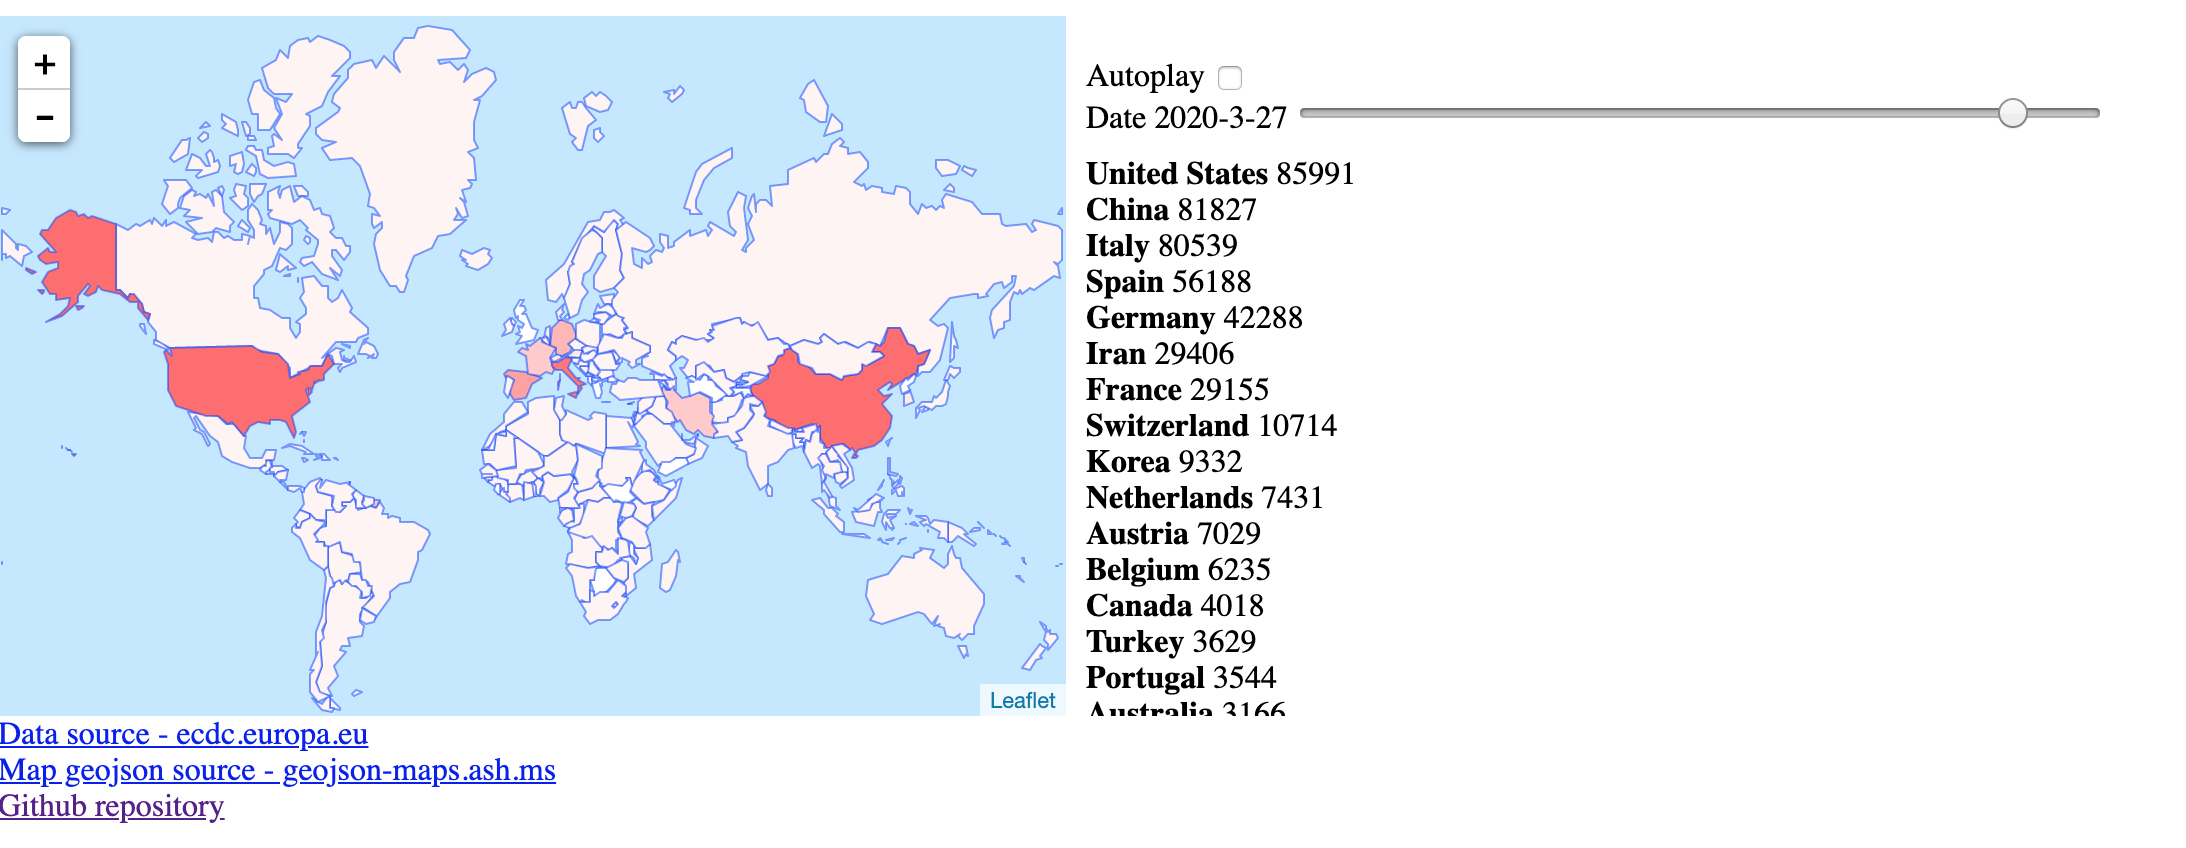
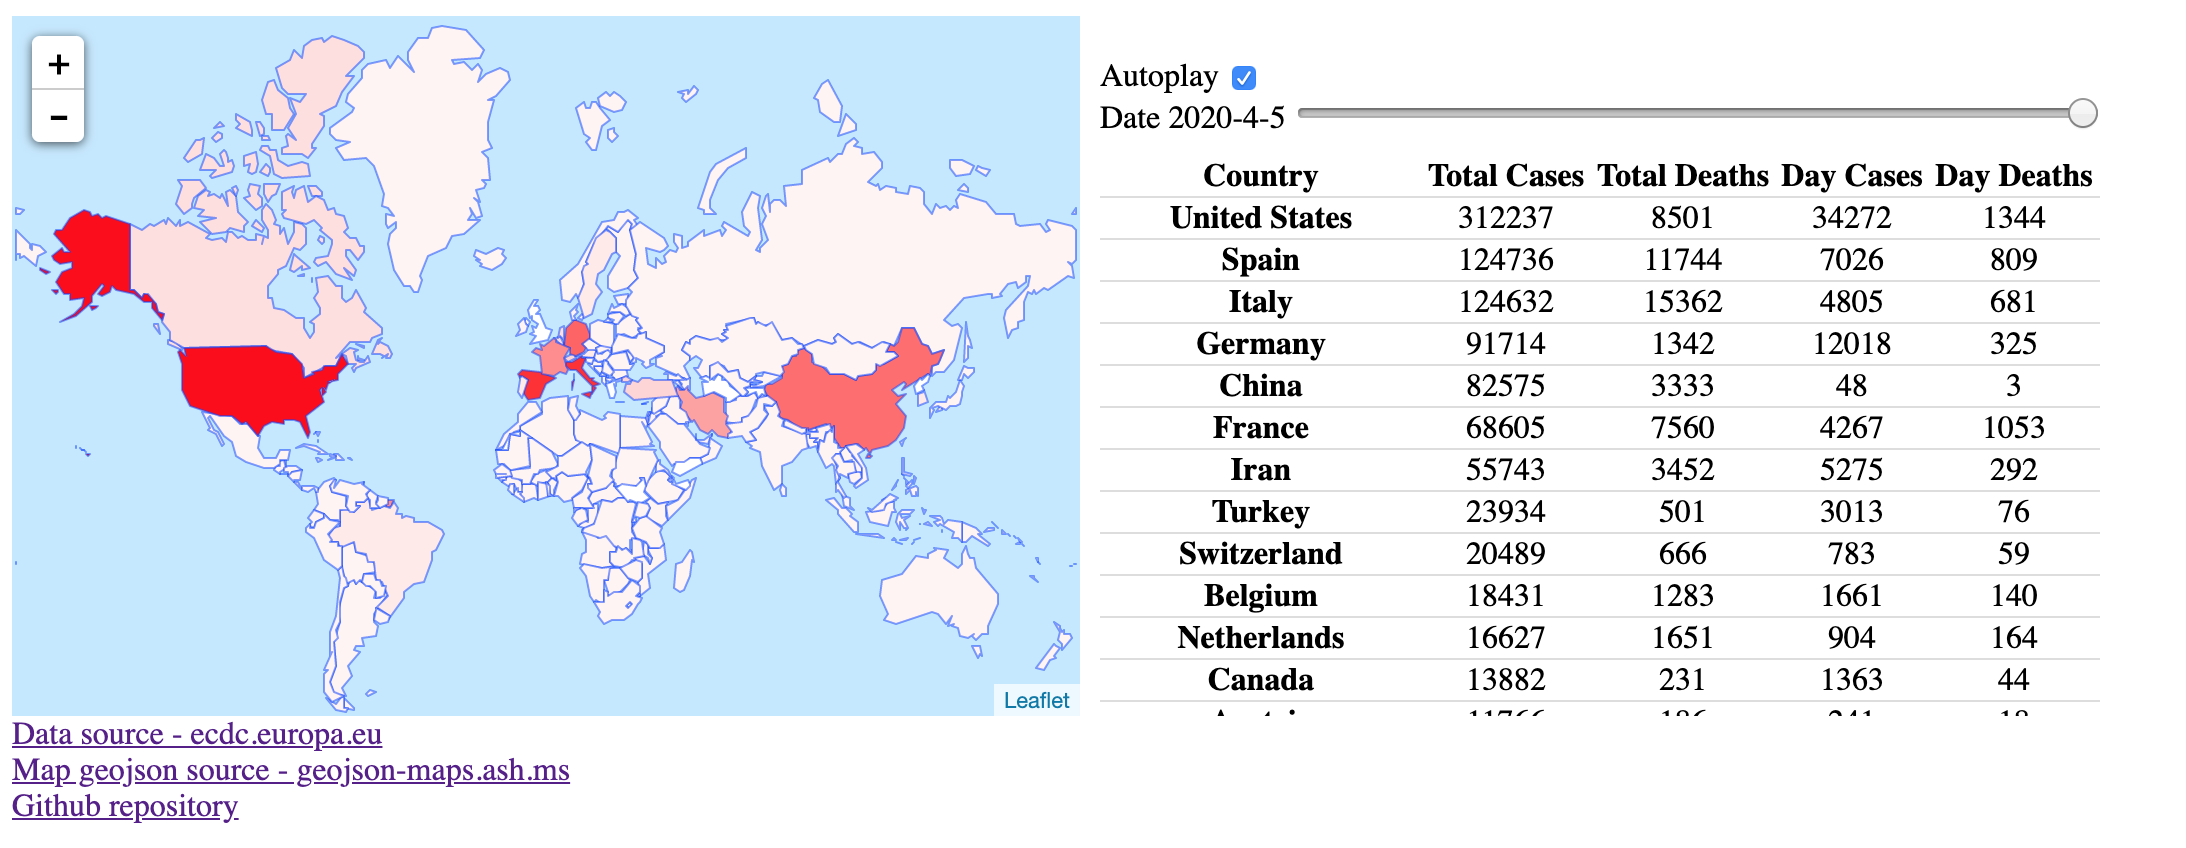
Update card.png screenshot

diff --git a/README.md b/README.md
@@ -2,7 +2,8 @@
 
 Shows disease spread from begginging till today using interactive world map.  
 
-![Website demo](screenshot.gif)
+![Website demo](card.png)
+![Website demo](screenshot.gif)  
 
 ### Thanks 
 
